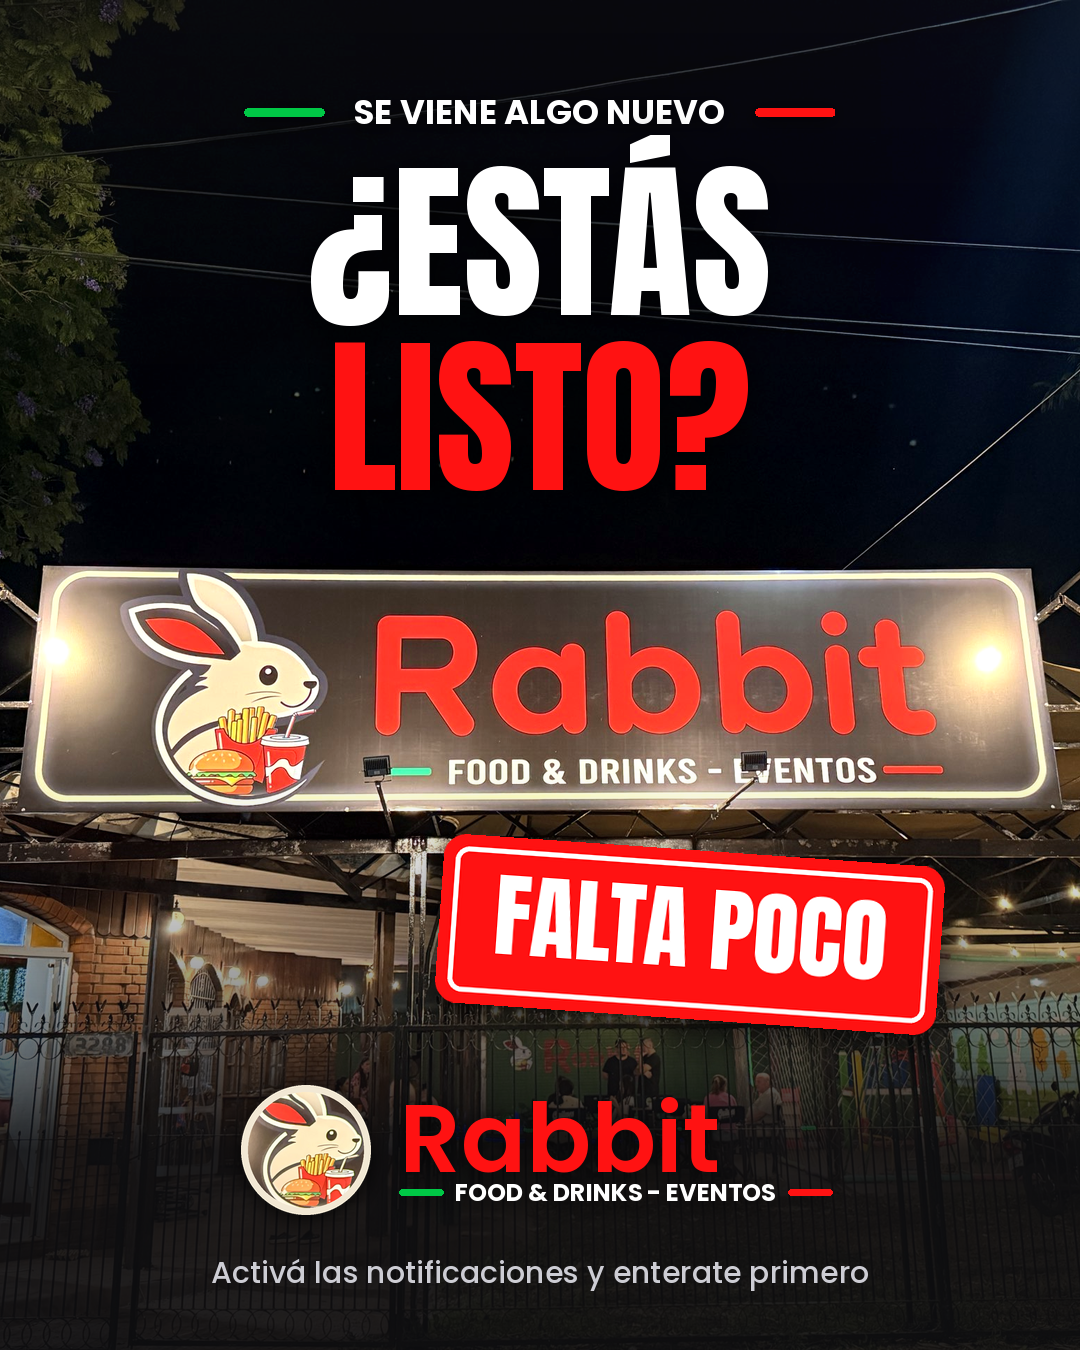
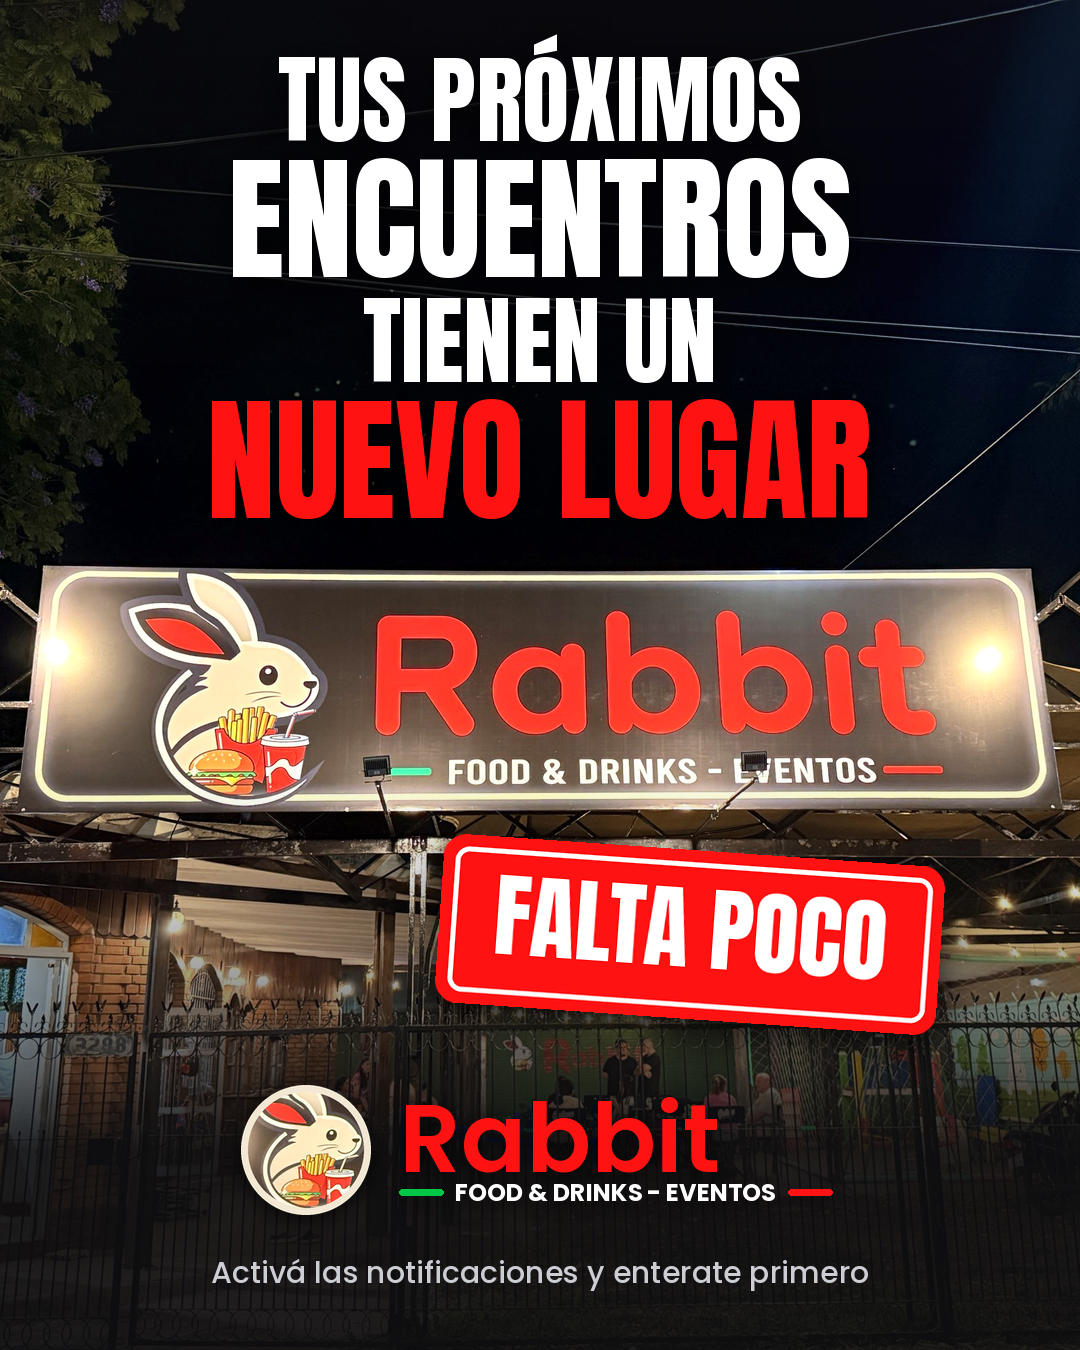
Rabbit: flyer con 'Tus próximos encuentros tienen un nuevo lugar'
Reemplaza '¿Estás listo?' y saca 'Se viene algo nuevo'; se mantiene el
cartel 'FALTA POCO' abajo. NUEVO LUGAR en rojo y más grande.

Claude-Session: https://claude.ai/code/session_01LwLBALHK691SuGhtfAj2Jn

Changed region(s): [[0.1833, 0.0311, 0.825, 0.4044]]

diff --git a/rabbit/proximamente/flyer_proximamente.py b/rabbit/proximamente/flyer_proximamente.py
@@ -1,4 +1,4 @@
-"""Flyer "¿Estás listo?" de Rabbit Food & Drinks (concepto "próximamente", sin repetir el
+"""Flyer "Tus próximos encuentros tienen un nuevo lugar" de Rabbit Food & Drinks (concepto "próximamente", sin repetir el
 "muy pronto" ya publicado). Fondo: foto de la entrada de noche.
 
 Uso: python3 flyer_proximamente.py <foto_entrada.jpg> <emblema.png> <dir_fuentes> <dir_salida>
@@ -17,7 +17,9 @@ BLANCO = (255, 255, 255)
 OSCURO = (14, 14, 16)
 
 KICKER = "SE VIENE ALGO NUEVO"
-TITULO = [("¿ESTÁS", BLANCO), ("LISTO?", ROJO)]
+# (texto, color, tamaño relativo): "NUEVO LUGAR" va en rojo y más grande
+TITULO = [("TUS PRÓXIMOS", BLANCO, 0.72), ("ENCUENTROS", BLANCO, 1.0),
+          ("TIENEN UN", BLANCO, 0.72), ("NUEVO LUGAR", ROJO, 1.0)]
 STICKER = "FALTA POCO"
 PIE = "Activá las notificaciones y enterate primero"
 
@@ -71,14 +73,20 @@ def kicker(f, tam=34):
     return sombra(im, 8, 200, (0, 3))
 
 
-def titulo(f, tam):
-    fn = f("Anton", tam)
-    lh = int(tam * 1.02)
-    w = int(max(fn.getlength(t) for t, _ in TITULO)) + 40
-    im = Image.new("RGBA", (w, lh * len(TITULO) + 40), (0, 0, 0, 0))
+def titulo(f, tam, ancho_max=980):
+    while True:
+        lineas = [(t, c, f("Anton", int(tam * r))) for t, c, r in TITULO]
+        if max(fn.getlength(t) for t, _, fn in lineas) <= ancho_max - 40 or tam < 60:
+            break
+        tam -= 4
+    alturas = [int(fn.size * 1.04) for _, _, fn in lineas]
+    w = ancho_max
+    im = Image.new("RGBA", (w, sum(alturas) + 40), (0, 0, 0, 0))
     d = ImageDraw.Draw(im)
-    for i, (t, c) in enumerate(TITULO):
-        d.text((w / 2, 20 + lh * i + lh / 2), t, font=fn, fill=c, anchor="mm")
+    y = 20
+    for (t, c, fn), lh in zip(lineas, alturas):
+        d.text((w / 2, y + lh / 2), t, font=fn, fill=c, anchor="mm")
+        y += lh
     return sombra(im, 18, 220, (0, 10))
 
 
@@ -154,8 +162,7 @@ def feed(foto, f, emblema, salida):
     img = recortar(foto, W, H, cx=0.5, cy=0.52)
     degradado(img, 0, 520, 150, arriba=True)
     degradado(img, 760, 1150, 235)
-    centrar(img, kicker(f), W / 2, 112)
-    centrar(img, titulo(f, 172), W / 2, 330)
+    centrar(img, titulo(f, 136), W / 2, 290)
     centrar(img, sticker(f, 92, -4), W / 2 + 150, 935)
     centrar(img, marca(f, emblema), W / 2, 1150)
     d = ImageDraw.Draw(img)
@@ -180,8 +187,7 @@ def historia(foto, f, emblema, salida):
     marco.alpha_composite(ft, (6, 6))
     y_foto = 735
     centrar(img, sombra(marco, 22, 200, (0, 16)), W / 2, y_foto + fh / 2)
-    centrar(img, kicker(f, 34), W / 2, 265)
-    centrar(img, titulo(f, 170), W / 2, 505)
+    centrar(img, titulo(f, 140), W / 2, 470)
     centrar(img, sticker(f, 92, -4), W / 2 + 170, y_foto + fh - 60)
     centrar(img, marca(f, emblema), W / 2, 1620)
     img.convert("RGB").save(salida)
